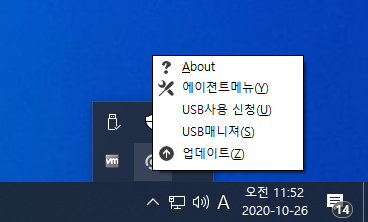
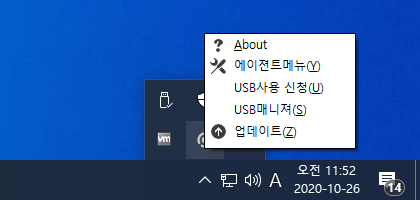
usb manual

Changed region(s): [[0.0, 0.15, 1.0, 1.0]]

diff --git a/_tosee/Manual/usb.md b/_tosee/Manual/usb.md
@@ -14,7 +14,7 @@ order: 7
 
 | 최초 설치시 상태 |
 |:-----|
-| 1. 상태 알림 <br> <img src="../../img/usb_001.png" width="364px" height="81px"/> <br> 2. Tray Icon Menu <br> <img src="../../img/usb_002.png" width="339px" height="177px"/> <br> 3. 환경 설정 메뉴 <br> <img src="../../img/usb_003.png" width="420px" height="289px"/> |
+| 1. 상태 알림 <br> <img src="../../img/usb_001.png" width="364px" height="81px"/> <br> 2. Tray Icon Menu <br> <img src="../../img/usb_002.png" width="420px" height="200px"/> <br> 3. 환경 설정 메뉴 <br> <img src="../../img/usb_003.png" width="420px" height="289px"/> |
 | 1. 최초 설치후 실행시 USB 포트가 차단되어 있다. <br> 2. 담당자(관리자)가 등록되어 있지 않은 경우에는 신청메뉴등도 보이지 않는다. <br> 3. 환경설정 메뉴를 오픈하면 담당자모드 활성화 버튼이 활성화 되어 있다. |
 
 &nbsp;
@@ -28,7 +28,7 @@ order: 7
 
 | 담당자 정보 확인 |
 |:-----|
-| 1. 담당자 확인  <br> <img src="../../img/usb_008.png" width="448px" height="289px"/> <br> 2. USB 사용 신청 메뉴 활성화(마우스 오른쫀 버튼)<br> <img src="../../img/usb_009.png" width="339px" height="177px"/> <br> 3. USB 매니져 메뉴 활성화(마우스 오른쫀 버튼) <br> <img src="../../img/usb_007.png" width="339px" height="177px"/> |
+| 1. 담당자 확인  <br> <img src="../../img/usb_008.png" width="420px" height="289px"/> <br> 2. USB 사용 신청 메뉴 활성화(마우스 오른쫀 버튼)<br> <img src="../../img/usb_009.png" width="420px" height="200px"/> <br> 3. USB 매니져 메뉴 활성화(마우스 오른쫀 버튼) <br> <img src="../../img/usb_007.png" width="420px" height="200px"/> |
 | 1. 일정시간이 지나야 담당자 확인이 가능하기 때문에 빠른 사용을 위해서 담당자 확인 버튼을 이용하여 정보를 받을 수 있다. <br> 2. 담당자 확인을 통해 USB 사용 신청 메뉴의 활성화 상태를 확인할 수 있다. <br> 3. 담당자(관리자)또한 USB매니져 메뉴가 활성화 된것이 확인 가능하다. |
 
 &nbsp;
@@ -42,7 +42,7 @@ order: 7
 
 | USB 사용 허가 및 관리 (담당자:관리자) |
 |:-----|
-| 1. 허가 신청자 확인  <br> <img src="../../img/usb_014.png" width="339px" height="177px"/> <br> 2. USB 매니져 <br> <img src="../../img/usb_015.png" width="697px" height="670px"/> |
+| 1. 허가 신청자 확인  <br> <img src="../../img/usb_014.png" width="420px" height="200px"/> <br> 2. USB 매니져 <br> <img src="../../img/usb_015.png" width="697px" height="670px"/> |
 | 1. 트레이 아이콘의 숫자를 통해 허가 요청을 한 신청자의 숫자를 확인할 수 있다.  <br> 2. USB 매니저를 통해서 허가 요청한 신청자를 확인하고 해당 신청자 위에 마우스 오른쪽 버튼을 눌러 허가 및 차단을 할 수 있다. |
 
 &nbsp;
